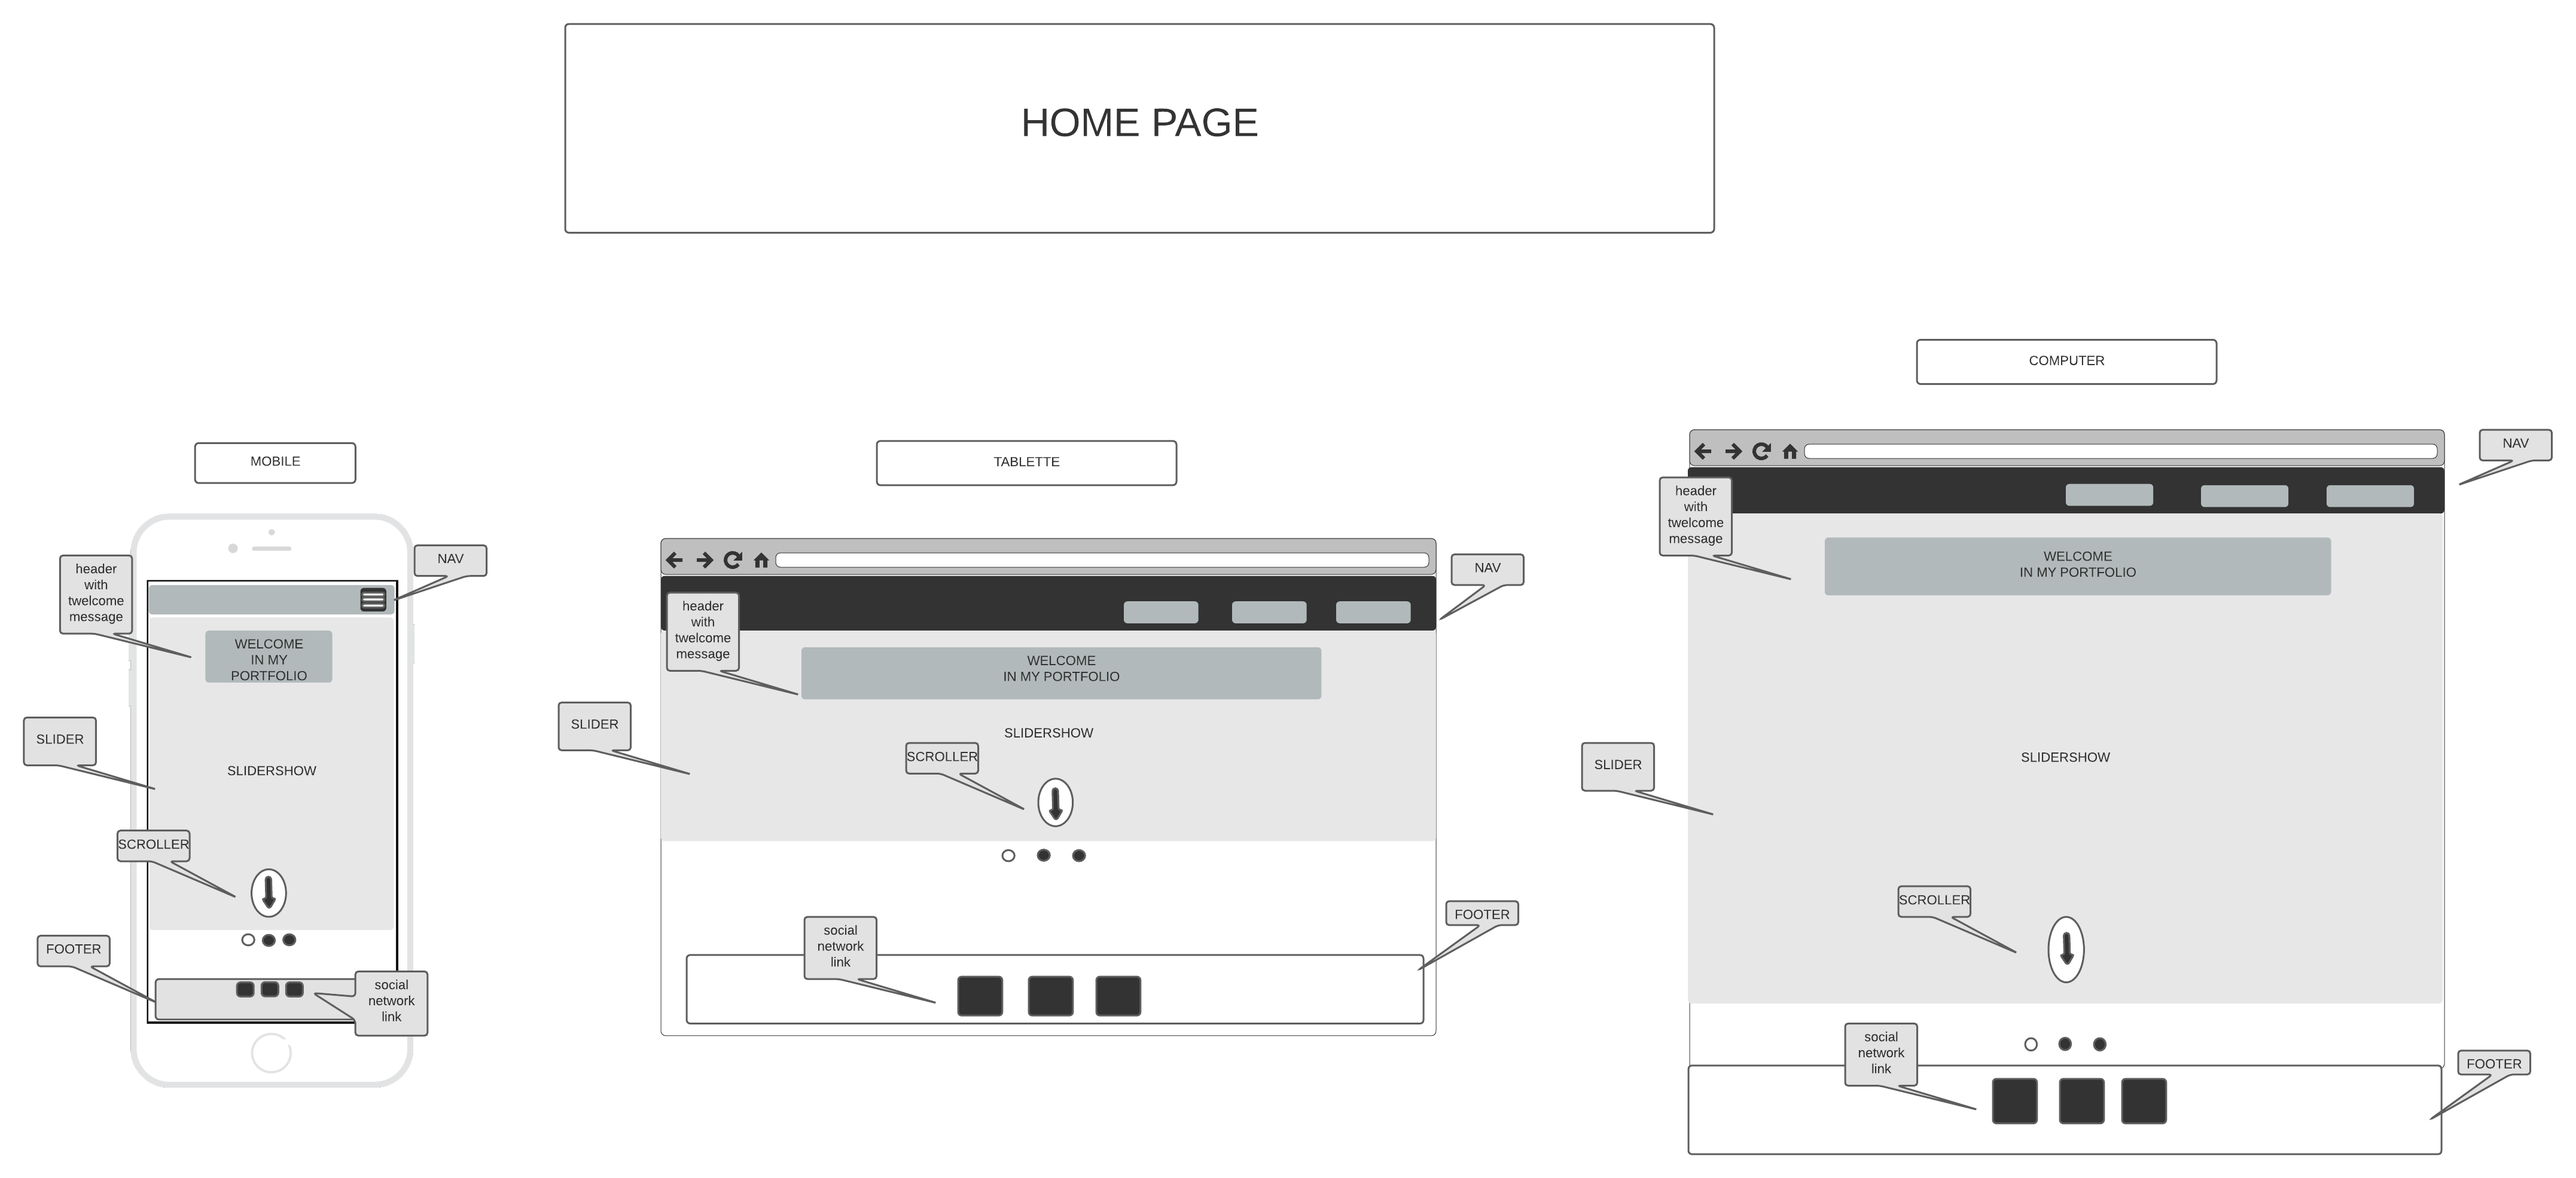
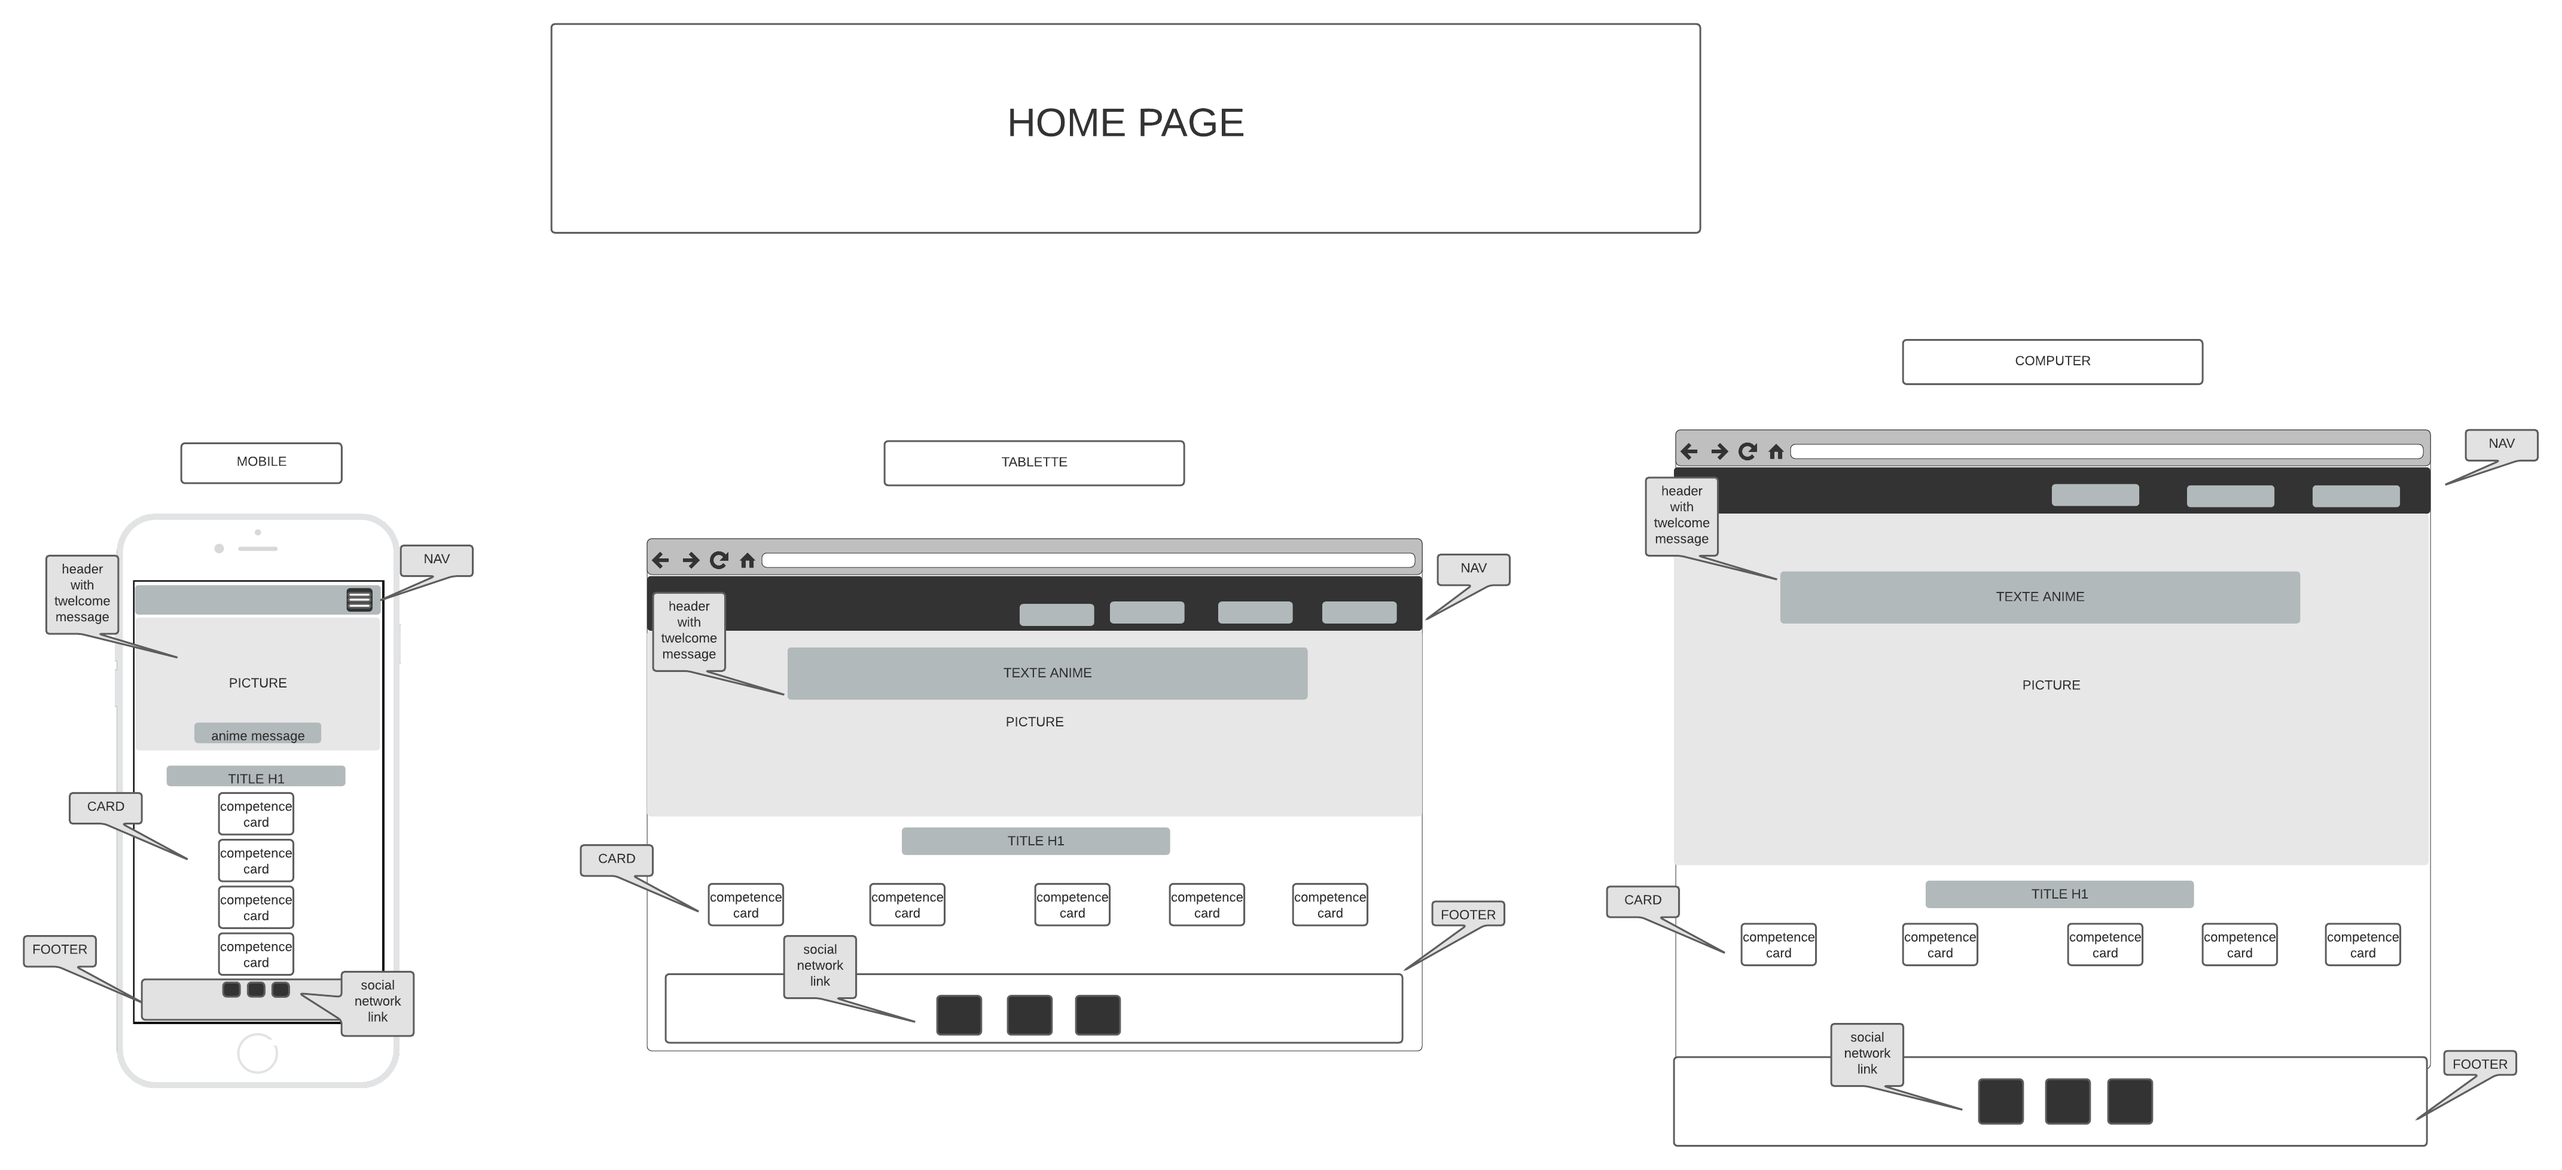
wireframe

diff --git a/src/App.css b/src/App.css
@@ -182,9 +182,7 @@ font-size: 1em;
 
 @media only screen and (min-width: 756px){
 
-  .card{
-
-  }
+ 
 
   .textAnime{
     top: 20vh;
@@ -196,6 +194,13 @@ font-size: 1em;
   }
   .headimage{
     height: 35rem;
+  }
+
+  .gride{
+    flex-wrap: nowrap;
+  }
+  .row{
+    margin-left: 2em;
   }
 
 
